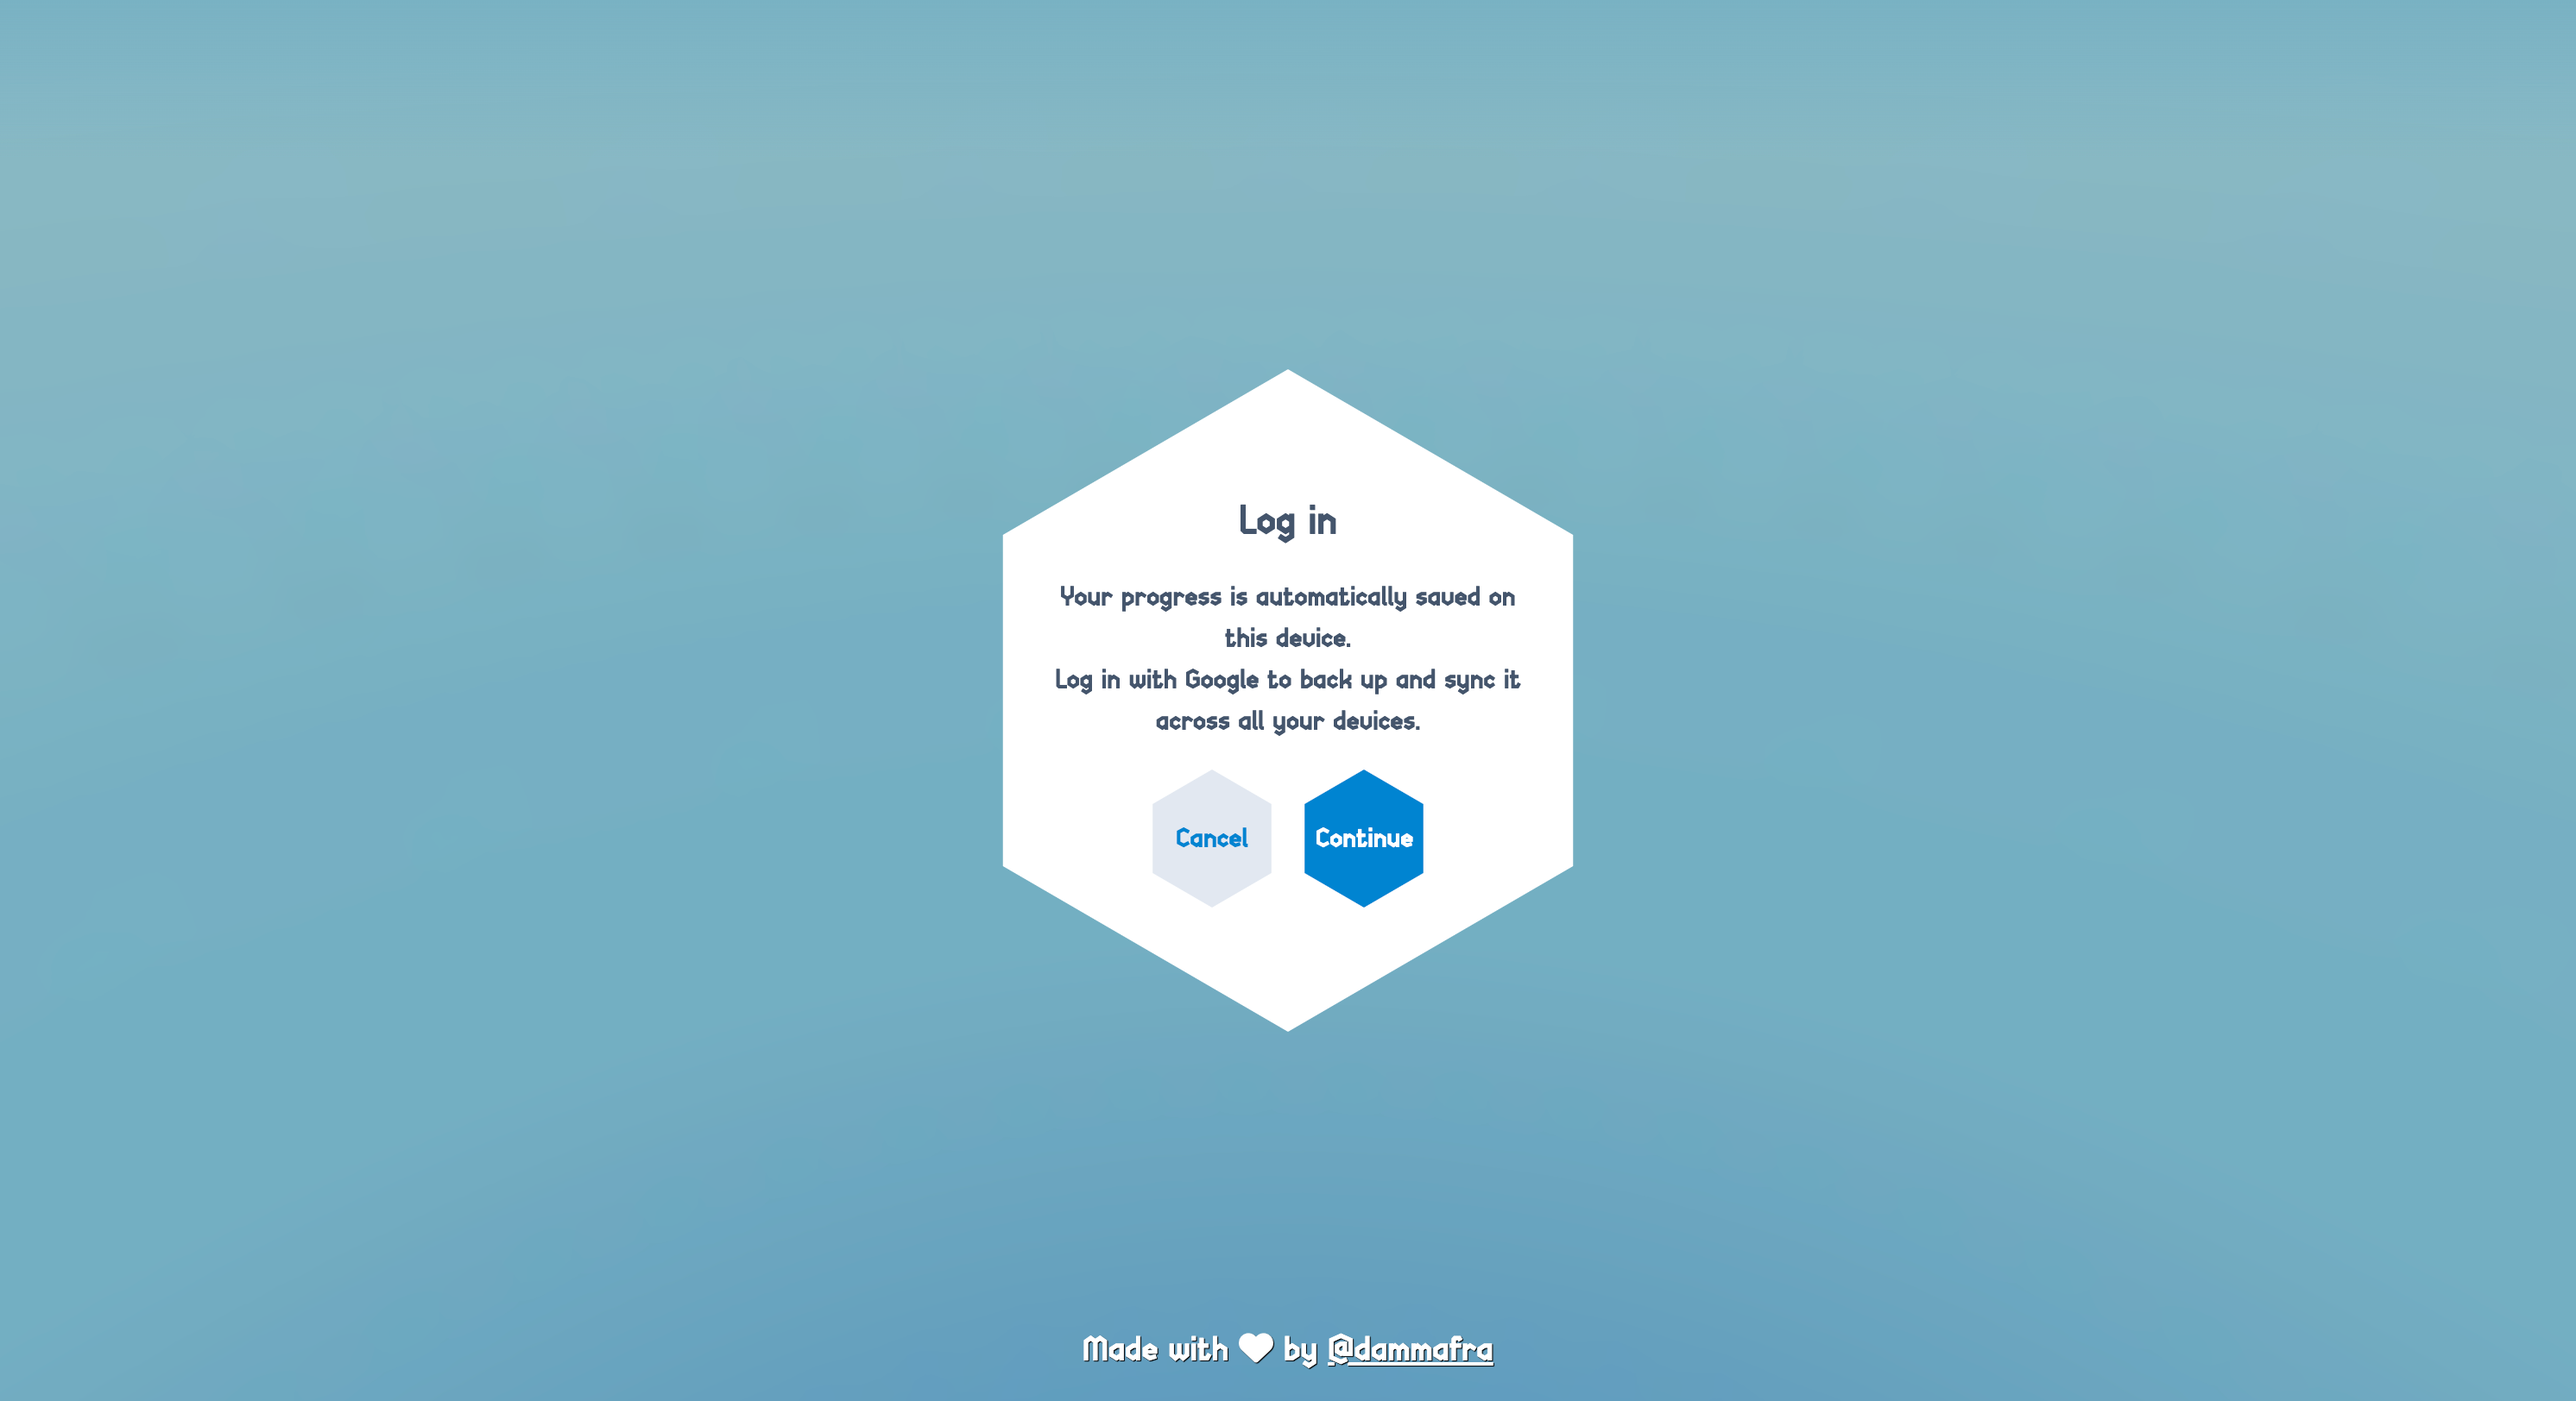
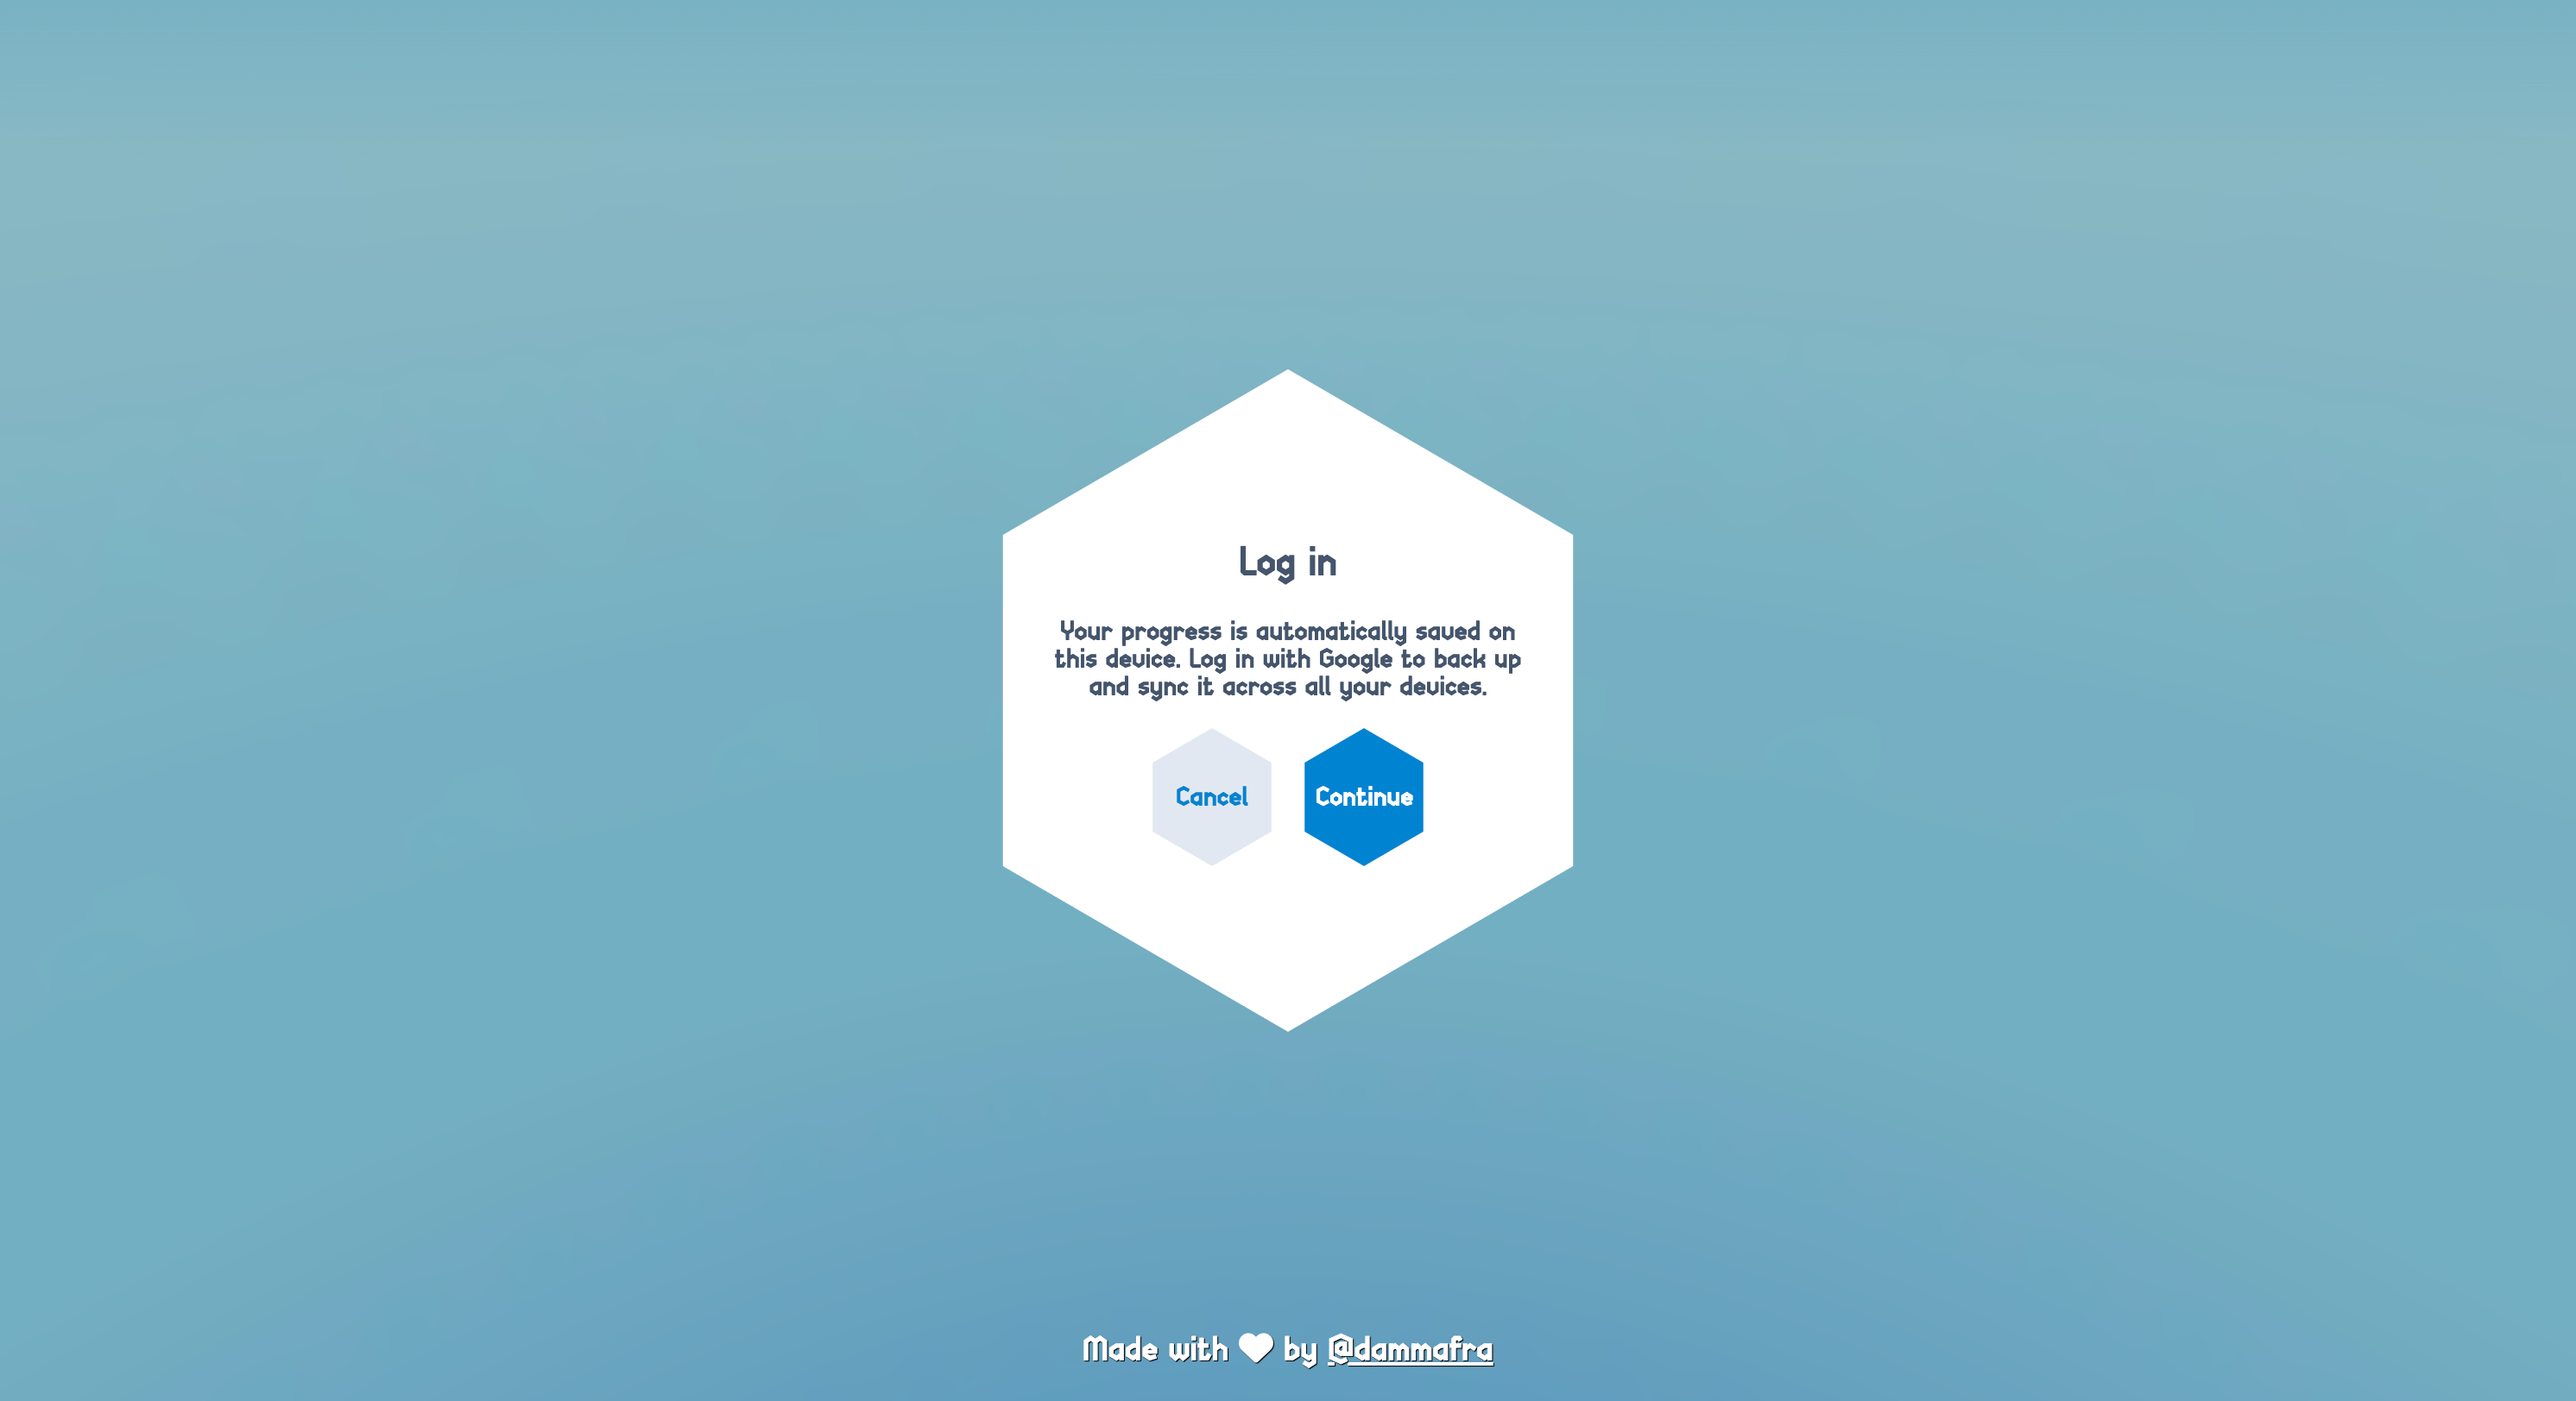
Code cleanup

Changed region(s): [[0.4052, 0.3695, 0.5922, 0.6466]]

diff --git a/src/index.html b/src/index.html
@@ -316,26 +316,26 @@
       <!-- modals -->
       <div id="credits" class="modal hidden">
         <h2>Thanks to</h2>
-        <div class="flex flex-col gap-1 text-sm">
-          <div>
+        <div class="flex flex-col gap-2 text-sm">
+          <p>
             <a href="https://kenney.nl/assets/hexagon-kit" target="_blank">Hexagon Kit</a> and
             <a href="https://kenney.nl/assets/cursor-pack" target="_blank">Cursor Pack</a> by
             <a href="https://kenney.nl" target="_blank">Kenney</a>
-          </div>
+          </p>
 
-          <div>
+          <p>
             <a href="https://codepen.io/boytchev/pen/qBLNEVZ" target="_blank">
               Wind flow implementation
             </a>
             by <a href="https://github.com/boytchev" target="_blank">Pavel Boytchev</a>
-          </div>
+          </p>
 
-          <div>
+          <p>
             Skybox via
             <a href="https://freestylized.com/skybox/sky_42/" target="_blank">Free Stylized</a>
-          </div>
+          </p>
 
-          <div class="leading-4">
+          <p>
             Sound Effects by
             <a
               href="https://pixabay.com/users/floraphonic-38928062/?utm_source=link-attribution&utm_medium=referral&utm_campaign=music&utm_content=197891"
@@ -374,18 +374,18 @@
             >
               Pixabay
             </a>
-          </div>
+          </p>
 
-          <div class="leading-4">
+          <p>
             <a href="https://skfb.ly/orun9" target="_blank"> Low-Poly Seagull </a>
             by
             <a href="https://sketchfab.com/simonaskLDE" target="_blank">simonaskLDE</a>
             [<a href="http://creativecommons.org/licenses/by/4.0/" target="_blank"> CC </a>]
             <br />via
             <a href="https://sketchfab.com/" target="_blank"> Sketchfab </a>
-          </div>
+          </p>
 
-          <div class="leading-4">
+          <p>
             <a href="https://poly.pizza/m/cIzO4MBPqI" target="_blank"> Sail Ship </a>
             by
             <a href="https://poly.pizza/u/Quaternius" target="_blank"> Quaternius </a>
@@ -396,7 +396,7 @@
             [<a href="https://creativecommons.org/licenses/by/3.0/" target="_blank">CC</a>]
             <br />via
             <a href="https://poly.pizza" target="_blank"> Poly Pizza </a>
-          </div>
+          </p>
         </div>
       </div>
 
@@ -432,8 +432,8 @@
       <div id="auth-login" class="modal hidden">
         <h2>Log in</h2>
         <p>
-          Your progress is automatically saved on this device. <br />
-          Log in with Google to back up and sync it across all your devices.
+          Your progress is automatically saved on this device. Log in with Google to back up and
+          sync it across all your devices.
         </p>
         <div class="flex justify-center gap-2">
           <button id="cancel" class="hex secondary size-20">Cancel</button>

diff --git a/src/experience/sound-player.js b/src/experience/sound-player.js
@@ -6,24 +6,18 @@ export default class SoundPlayer {
     this.resources = this.experience.resources
 
     this.audioContext = new (window.AudioContext || window.webkitAudioContext)()
-    this.unlockAudioContext()
 
     this.muted = false
     this.backgrounds = new Map()
-  }
 
-  unlockAudioContext() {
-    if (this.audioContext.state !== 'suspended') return
-
-    const b = document.body
-    const events = ['touchstart', 'touchend', 'mousedown', 'keydown']
-    events.forEach(e => b.addEventListener(e, unlock.bind(this), false))
-    function unlock() {
-      this.audioContext.resume().then(clean)
-    }
-    function clean() {
-      events.forEach(e => b.removeEventListener(e, unlock))
-    }
+    /**
+     * This code helps resume audioContext when the tab is suspended (e.g., when switching apps or locking the phone) and later resumed,
+     * especially on mobile where browsers often suspend audio contexts to save resources;
+     * by listening to user interactions (touchstart, touchend, mousedown, keydown), it ensures audio resumes reliably after the tab becomes active again.
+     */
+    ;['touchstart', 'touchend', 'mousedown', 'keydown'].forEach(e =>
+      document.body.addEventListener(e, () => this.audioContext.resume(), false),
+    )
   }
 
   setMuted(value) {

diff --git a/src/style.css b/src/style.css
@@ -92,7 +92,7 @@ main button * {
 }
 
 a {
-  @apply inline-block underline;
+  @apply inline-block underline hover:text-primary;
 }
 
 html,
@@ -173,16 +173,7 @@ main {
 }
 
 .menu footer a {
-  @apply underline hover:text-sky-200;
-}
-
-/* credits */
-.credits {
-  @apply text-base;
-}
-
-.credits a {
-  @apply underline hover:text-primary;
+  @apply hover:text-sky-200;
 }
 
 /* modal */
@@ -202,8 +193,8 @@ main {
   @apply text-2xl;
 }
 
-#credits.modal {
-  @apply gap-2;
+.modal p {
+  @apply leading-4;
 }
 
 #credits.modal a {
@@ -265,7 +256,7 @@ input[type='radio']:checked ~ .radio-mark::after {
 }
 
 #tutorial {
-  @apply absolute bottom-28 px-10 w-full text-center text-2xl text-white animate-pulse pointer-events-none;
+  @apply absolute bottom-28 px-10 w-full text-center text-2xl leading-6 text-white animate-pulse pointer-events-none;
   text-shadow: 1px 1px 2px black;
 }
 

diff --git a/src/ui/button.js b/src/ui/button.js
@@ -8,7 +8,7 @@ export default class Button extends Element {
   }
 
   onClick(callback) {
-    this.element.onclick = async () => {
+    this.element.addEventListener('click', async () => {
       this.disable()
 
       gsap
@@ -26,7 +26,7 @@ export default class Button extends Element {
 
       callback()
       this.element.blur()
-    }
+    })
 
     return this
   }

diff --git a/src/ui/modal.js b/src/ui/modal.js
@@ -46,7 +46,10 @@ export default class Modal extends Element {
       duration: 0.25,
       ease: 'back.in',
       onStart: () => this.closeButton.hide(),
-      onComplete: () => this.content.remove(),
+      onComplete: () => {
+        this.content.remove()
+        delete this.content
+      },
     })
 
     document.removeEventListener('keydown', this.onKeydown)
